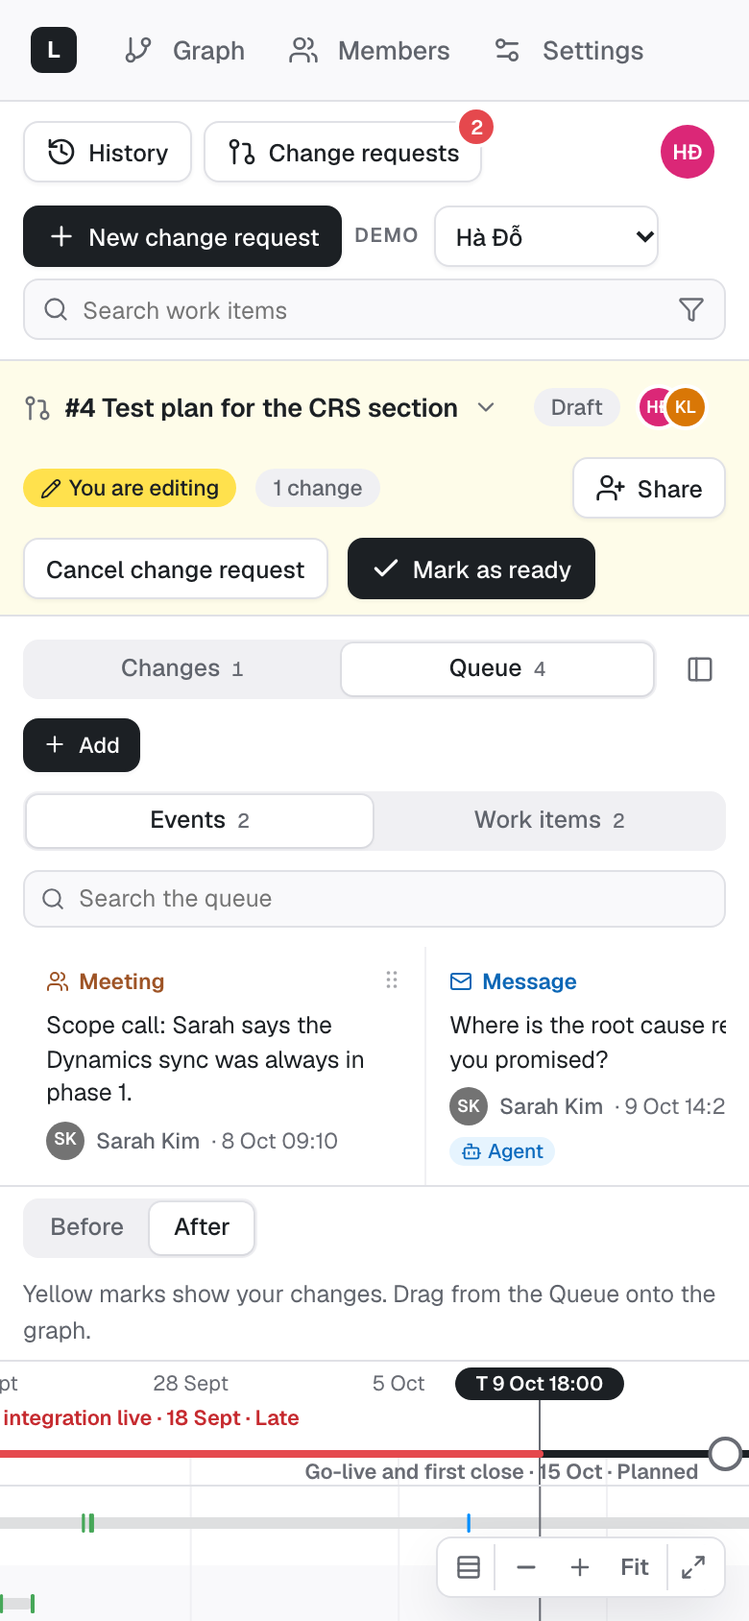
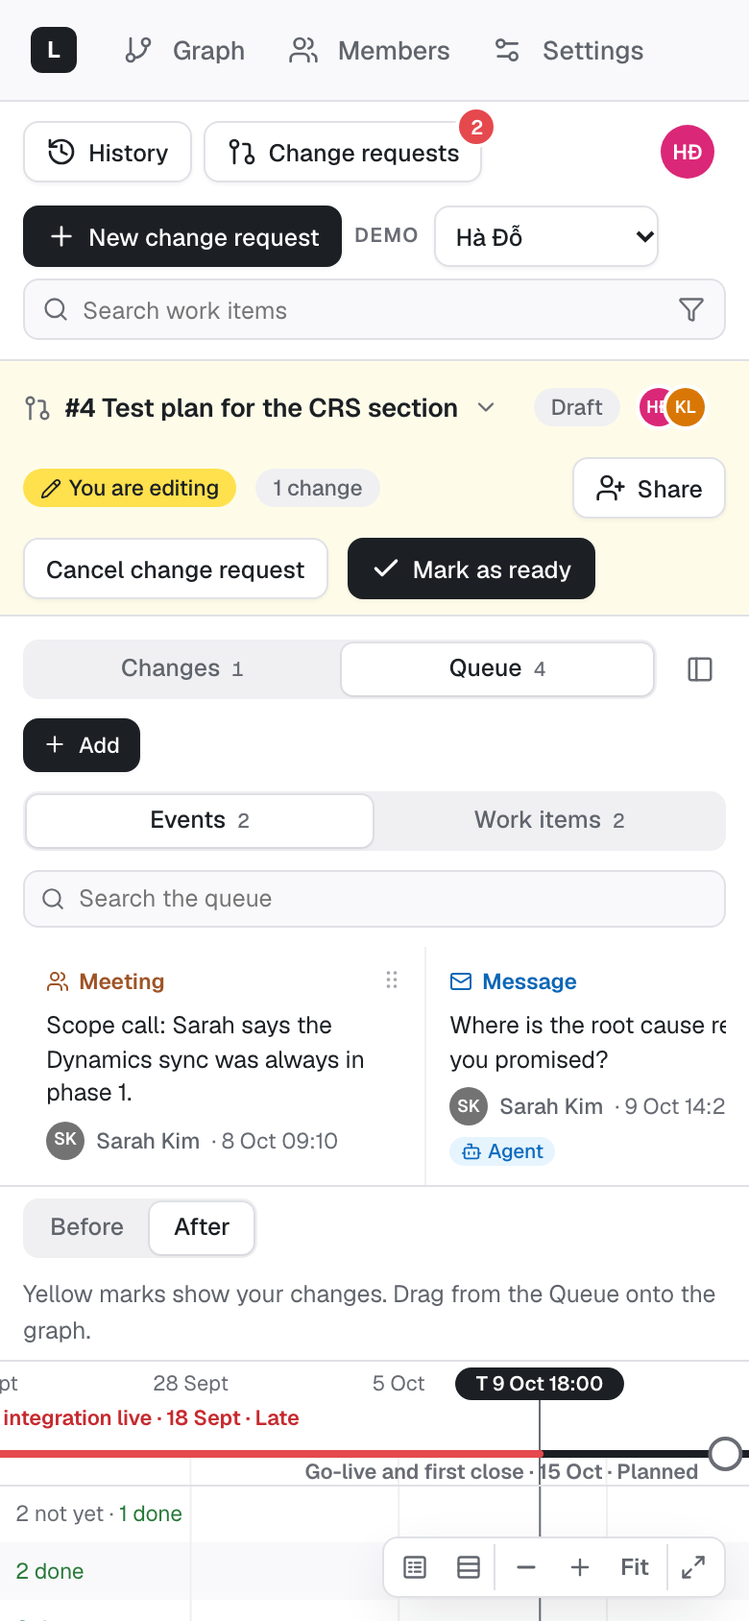
docs: legend popover in the spec, design system and readme, with new screenshots

Changed region(s): [[0.0, 0.9242, 1.0, 1.0]]

diff --git a/docs/design/design-system.html b/docs/design/design-system.html
@@ -317,10 +317,21 @@ table.t td.mono { font: 12px var(--f-id); white-space: nowrap; }
 .tk .zoombar button { display: grid; place-items: center; min-width: 26px; height: 24px; padding: 0 6px; border: 0; border-radius: 6px; background: none; color: var(--ink-2); font: 600 12px/1 var(--f-ui); cursor: pointer; }
 .tk .zoombar button:hover { background: var(--hover); color: var(--ink); }
 .tk .zoombar .full { margin-left: 2px; box-shadow: -1px 0 0 var(--rule); border-radius: 0 var(--r-ctl) var(--r-ctl) 0; }
-.tk .legend2 { display: flex; gap: 6px 16px; flex-wrap: wrap; padding: 9px 14px; font-size: var(--fs-xs); color: var(--ink-2); align-items: center; }
-.tk .legend2 span { display: inline-flex; align-items: center; gap: 6px; }
-.tk .legend2 i.ln { display: inline-block; width: 16px; height: 2.5px; border-radius: 2px; }
-.tk .legend2 .chg { padding: 0 5px; border-radius: 4px; background: var(--change-bg); color: var(--change-text); font-style: normal; font-weight: 600; }
+.tk .zoombar .lg-btn[aria-expanded='true'] { background: var(--hover); color: var(--ink); }
+.tk .legend-pop { position: relative; container-type: inline-size; width: min(600px, 100%); padding: 10px 14px 12px; background: var(--panel); border: 1px solid var(--rule); border-radius: var(--r-pop); box-shadow: var(--shadow); font-size: var(--fs-xs); color: var(--ink-2); }
+.tk .legend-pop .lg-x { position: absolute; top: 6px; right: 8px; border: 0; background: none; color: var(--ink-3); font-size: 20px; line-height: 1; padding: 0 2px; cursor: pointer; }
+.tk .lg-grid { display: grid; grid-template-columns: repeat(4, minmax(0, 1fr)); gap: 10px 18px; }
+.tk .lg-sec { display: grid; gap: 5px; align-content: start; min-width: 0; }
+.tk .lg-ev { grid-column: span 2; }
+.tk .lg-ev-cols { display: grid; grid-template-columns: repeat(2, minmax(0, 1fr)); gap: 0 18px; }
+.tk .lg-gl { font-size: 10.5px; font-weight: 600; text-transform: uppercase; letter-spacing: 0.07em; color: var(--ink-3); margin: 0 0 1px; }
+.tk .lg-gl ~ .lg-gl { margin-top: 8px; }
+.tk .lg-it { display: flex; align-items: center; gap: 7px; min-width: 0; line-height: 18px; white-space: nowrap; }
+.tk .lg-it i.ln { flex: none; width: 16px; height: 2.5px; border-radius: 2px; }
+.tk .lg-it .ms-sw { flex: none; margin: 0 3px; }
+.tk .lg-it .chg { padding: 0 5px; border-radius: 4px; background: var(--change-bg); color: var(--change-text); font-style: normal; font-weight: 600; line-height: 16px; }
+.tk .lg-ring { flex: none; display: grid; place-items: center; width: 18px; height: 18px; border-radius: 50%; border: 1.5px solid currentColor; background: color-mix(in srgb, currentColor var(--k-tint), var(--panel)); }
+@container (max-width: 520px) { .tk .lg-grid { grid-template-columns: repeat(2, minmax(0, 1fr)); } }
 .tk .ms-sw { display: inline-block; width: 10px; height: 10px; border-radius: 50%; border: 2px solid currentColor; }
 .tk .ms-sw.fill { background: currentColor; }
 .tk .bin { display: inline-flex; align-items: center; gap: 8px; padding: 8px 12px; border: 1px solid var(--danger); border-radius: var(--r-pop); background: var(--panel); color: var(--danger-ink); font-size: var(--fs-xs); font-weight: 600; box-shadow: var(--shadow); }
@@ -458,21 +469,36 @@ svg.tg .note { font-size: 10px; fill: var(--ink-3); }
     <div class="row">
       <span class="badge st-planned">Planned</span><span class="badge st-early">Finished early</span><span class="badge st-ontime">Finished on time</span><span class="badge st-late">Late</span><span class="badge st-flate">Finished late</span>
     </div>
-    <div class="legend2" style="padding:12px 0 0">
-      <span><i class="ln" style="background:var(--route)"></i>Not finished</span>
-      <span><i class="ln" style="background:var(--proceed)"></i>Done</span>
-      <span><i class="ln" style="background:var(--danger)"></i>Not finished after its planned finish</span>
-      <span><i class="ln" style="background:var(--caution)"></i>Done after its planned finish</span>
-      <span><svg width="12" height="12" viewBox="-7 -7 14 14" aria-hidden="true"><path d="M0 -6 L6 0 L0 6 L-6 0 Z" fill="var(--ink-3)" stroke="var(--ink-3)" stroke-width="1.5"/></svg>Milestone deadline on its work items</span>
-      <span style="color:var(--ink-3)"><i class="ms-sw"></i><span style="color:var(--ink-2)">Planned</span></span>
-      <span style="color:var(--teal)"><i class="ms-sw fill"></i><span style="color:var(--ink-2)">Finished early</span></span>
-      <span style="color:var(--proceed)"><i class="ms-sw fill"></i><span style="color:var(--ink-2)">Finished on time</span></span>
-      <span style="color:var(--danger)"><i class="ms-sw fill"></i><span style="color:var(--ink-2)">Late</span></span>
-      <span style="color:var(--caution)"><i class="ms-sw fill"></i><span style="color:var(--ink-2)">Finished late</span></span>
-      <span><i class="chg">Name</i>Changed in this change request</span>
+    <div class="legend-pop" role="dialog" aria-label="Legend" style="margin-top:14px">
+      <button type="button" class="lg-x" aria-label="Close legend">×</button>
+      <div class="lg-grid">
+        <div class="lg-sec">
+          <p class="lg-gl">Line</p>
+          <span class="lg-it"><i class="ln" style="background:var(--route)"></i>Not finished</span>
+          <span class="lg-it"><i class="ln" style="background:var(--proceed)"></i>Done</span>
+          <span class="lg-it" title="Not finished after its planned finish"><i class="ln" style="background:var(--danger)"></i>Late part</span>
+          <span class="lg-it" title="Done after its planned finish"><i class="ln" style="background:var(--caution)"></i>Done late</span>
+          <span class="lg-it"><i class="ln" style="background:var(--isolated)"></i>Cancelled</span>
+          <p class="lg-gl">Change</p>
+          <span class="lg-it" title="Changed in this change request"><i class="chg">Name</i>Changed here</span>
+        </div>
+        <div class="lg-sec">
+          <p class="lg-gl">Milestone</p>
+          <span class="lg-it" title="Milestone deadline on its work items"><svg width="12" height="12" viewBox="-7 -7 14 14" aria-hidden="true"><path d="M0 -6 L6 0 L0 6 L-6 0 Z" fill="var(--ink-3)" stroke="var(--ink-3)" stroke-width="1.5"/></svg>Deadline</span>
+          <span class="lg-it"><i class="ms-sw" style="color:var(--ink-3)"></i>Planned</span>
+          <span class="lg-it" title="Finished early"><i class="ms-sw fill" style="color:var(--teal)"></i>Early</span>
+          <span class="lg-it" title="Finished on time"><i class="ms-sw fill" style="color:var(--proceed)"></i>On time</span>
+          <span class="lg-it"><i class="ms-sw fill" style="color:var(--danger)"></i>Late</span>
+          <span class="lg-it"><i class="ms-sw fill" style="color:var(--caution)"></i>Finished late</span>
+        </div>
+        <div class="lg-sec lg-ev" role="group" aria-label="Event kinds">
+          <p class="lg-gl">Event</p>
+          <div class="lg-ev-cols"><div class="lg-sec" id="lg-ev1"></div><div class="lg-sec" id="lg-ev2"></div></div>
+        </div>
+      </div>
     </div>
   </div>
-  <p class="cap">The real legend below the graph (Legend in TrackerGraph.tsx).</p>
+  <p class="cap">The Legend popover above the zoom bar (LegendBody in TrackerGraph.tsx). It opens by default until the person closes it; 2 columns on a phone.</p>
 
   <h3>Change mark: C2 yellow highlighter</h3>
   <div class="swgrid" id="sw-change"></div>
@@ -692,7 +718,7 @@ Handed over to Digitization · received in PG-202 DealCloud mapping for CRS fiel
     <div class="stage">
       <div class="row" style="gap:18px">
         <div class="toast">Event placed on Sync incident report <button type="button" id="toast-undo">Undo</button></div>
-        <div class="zoombar"><button type="button" aria-label="Zoom out">−</button><button type="button" aria-label="Zoom in">+</button><button type="button">Fit</button><button type="button" class="full" aria-pressed="false" aria-label="Full view" id="zb-full"></button></div>
+        <div class="zoombar"><button type="button" class="lg-btn" aria-label="Legend" title="Legend" aria-expanded="true" id="zb-legend"></button><button type="button" aria-label="Zoom out">−</button><button type="button" aria-label="Zoom in">+</button><button type="button">Fit</button><button type="button" class="full" aria-pressed="false" aria-label="Full view" id="zb-full"></button></div>
         <div class="bin" id="bin">Drop here to hide</div>
       </div>
     </div>
@@ -895,6 +921,11 @@ Handed over to Digitization · received in PG-202 DealCloud mapping for CRS fiel
   put('sk2', svg(KIND.message, 13));
   prepend('toast-undo', svg(UI.undo, 13));
   put('zb-full', svg(UI.maximize, 14));
+  put('zb-legend', svg([S, '<rect width="18" height="18" x="3" y="3" rx="2"/><path d="M7 8h2"/><path d="M12 8h5"/><path d="M7 12h2"/><path d="M12 12h5"/><path d="M7 16h2"/><path d="M12 16h5"/>'], 14));
+  var LEGEND_KINDS = ['idea', 'message', 'issue', 'task', 'meeting', 'decision', 'delivery', 'handoff', 'done', 'cancelled'];
+  function legendKind(k) { return '<span class="lg-it"><span class="lg-ring" style="color:var(--k-' + k + ')">' + svg(KIND[k], 11) + '</span>' + KIND_LABEL[k] + '</span>'; }
+  put('lg-ev1', LEGEND_KINDS.slice(0, 5).map(legendKind).join(''));
+  put('lg-ev2', LEGEND_KINDS.slice(5).map(legendKind).join(''));
   prepend('bin', svg(UI.trash, 14));
   prepend('rail-graph', railSvg('graph'));
   prepend('rail-settings', railSvg('settings'));

diff --git a/docs/superpowers/specs/2026-10-16-event-tracker-design.md b/docs/superpowers/specs/2026-10-16-event-tracker-design.md
@@ -29,7 +29,7 @@ Promise Graph becomes an event tracker for a whole project. It shows what happen
 7. Each work item has a Planned finish: a date plus an optional time of day (`HH:mm`, project time zone), the same as a milestone deadline. Without a time it is the end of that day. Work items use the same 5 statuses against that instant, plus Cancelled (decision 1): Cancelled = the last finishing event is a Cancelled, whatever the dates; Late = not finished and now is after it; Finished late = the finish is after it; Finished early = the finish day is before the planned day; otherwise Finished on time. Add to queue (work item), Place work item, New work item from an event and the details panel take the optional time; Place keeps the time of the Queue card unless it sets a new date or time. Moving a Planned finish or a milestone date needs a written reason (not empty after trim). Every place that sets or moves a milestone date also takes the optional time: New milestone, the milestone drawer (Planned date and Time), Move the date, the drag of the milestone circle (it keeps the time), and the first milestone of New project (a time without a name and a date is refused, never dropped). A change of the time alone is a move. Labels and tooltips show the time only when it is set ("15 Oct 17:00"). The app keeps the first date and every move: who, when, from, to, why. The graph draws no date flag for a work item. The details panel shows the Planned finish and folds the first date and every move. In an editable change request, the Planned finish date and time in the details panel are inputs: a new value shows "Why does the date move? (required)" under them with Cancel and Move the date; a drag of the milestone circle opens the reason dialog with the dropped date.
 8. Colours and marks:
    - A row is blue while open and green when done. The part of the line after the item's own Planned finish instant (its time when set, else the end of its day) is red while open and amber when done late. A cancelled row draws one neutral grey line (`--isolated`) from its start to the Cancelled event and nothing after it: never red, never amber.
-   - Kinds colour the events, status colours the lines (owner ruling 18 Oct, K1). An event circle takes the colour of the event kind (`--k-*`; Task grey, Meeting brown) on all of it: a 2-unit ring at full strength, a light tint inside (12 % over `--panel` in light, 16 % in dark) and the icon (owner, 18 Oct: the light theme looked washed out); a stack takes the kind colour of its top (latest) event, and the circles behind it a stronger tint of that colour (26 % light, 30 % dark). The yellow change ring, the selection band and the focus ring stay as they are. The legend lists the 10 kinds with their icons, and the Cancelled line colour next to the other line colours; its milestone statuses stay 5.
+   - Kinds colour the events, status colours the lines (owner ruling 18 Oct, K1). An event circle takes the colour of the event kind (`--k-*`; Task grey, Meeting brown) on all of it: a 2-unit ring at full strength, a light tint inside (12 % over `--panel` in light, 16 % in dark) and the icon (owner, 18 Oct: the light theme looked washed out); a stack takes the kind colour of its top (latest) event, and the circles behind it a stronger tint of that colour (26 % light, 30 % dark). The yellow change ring, the selection band and the focus ring stay as they are. The legend lists the 10 kinds, each drawn as its graph circle, and the Cancelled line colour next to the other line colours; its milestone statuses stay 5.
    - A milestone is a circle on the milestone line. Its fill is the status colour (Planned: an outline only). It shows a tick when finished early or on time, and "!" when late or finished late. Its label is "name · date · status" on 2 levels.
    - Milestones have no links and no chip column. Every member row shows a deadline diamond at the deadline (decision 6), and the milestone circle sits at the same point: at the time when it is set, else at the end of the day, after every event of that day.  The diamond is filled with the milestone status colour (Planned: an outline only), with a yellow stroke when a change request moved that date. It tells which milestone the row belongs to. The full milestone name shows once per team and milestone, beside the diamond of the first member row of that team: right of the diamond, or left of it when the right has no room, just above the line and inside the band of its own row. When neither side has room for the full name (an event, a mark, a chip or a waiting text, or the edge of the time line), that team shows no name and no other row takes it. A milestone date before the window start draws no diamond; the details panel still shows the milestone. Hover and keyboard focus show "<milestone name> · deadline <date> · <status>" (the date with its time when set), plus "This work item makes it late." or "This work item finished after it." when the row finished after the deadline, or is open while now is after the deadline or its Planned finish is after the milestone date. The overrun of the work item itself stays the red part of its line. A click, Enter or Space on the diamond opens the milestone drawer.
    - Yellow marks what a change request changed (owner choice C2): a highlighter behind a changed name (11 px), a solid 3 px yellow ring with a 30 % yellow fill around a changed event, and a 3 px yellow stroke on a changed milestone circle or a moved milestone date. The tokens are `--change` (light `#e0a800`, dark `#ffe629`), `--change-text` and `--change-bg` (light `#ffe14d`, dark `#6e5a00`); round 7 made them stronger so they read in both themes.
@@ -195,7 +195,8 @@ Port the prototype screen by screen, with the app's tokens (`src/app/globals.css
 - Rail (`src/components/shell/Rail.tsx`): Graph, Members and Settings at the top; at the bottom only the fold button, with a panel icon (Lucide `panel-left-close` and `panel-left-open`). The current page reads in bold, with no box.
 - Members page (`src/components/members/MembersScreen.tsx`) and Settings page: the tracker controls and type scale, a top bar with the page name, the project and the account menu, and flat rows with hairline dividers.
 - `QueuePanel`: only in a draft CR that the acting member edits; a toggle hides it and a "Queue N" button shows it again.
-- `TrackerGraph`: SVG from `layoutTracker` at one pixel per unit, and it reports the width of its time line on every resize. Folding the rail, closing the Queue or a wider window shows more of the time line at the same scale. The graph opens at a readable scale once its width is measured (`openScale` in `src/components/tracker/scale.ts`): the visible time line holds the last 42 days up to a week after T, never less than 10 units a day (a phone) and never less than the fit, and it scrolls so that T plus a week sits at its right edge (on a phone the whole graph also scrolls to its right end, so T shows and the labels are a swipe away); the window still starts early enough for every event, so earlier work is a scroll or a Fit away (round 7 review). The view menu (Row height, Expand all, Collapse all) and the zoom buttons (Zoom out, which stops at the fit, Zoom in ×1.5, Fit, which fits the window to the current width, Full view) floating at the bottom right of the graph area and Ctrl or Cmd with the wheel or a trackpad pinch (`wheelZoomFactor` in `scale.ts`: a factor of e^(−0.005 × deltaY) per wheel event, 2.5 times the old rate so a pinch feels direct, clamped to one step of ×1.25 so a mouse notch stays one comfortable step; owner, 18 Oct), or a Safari trackpad pinch (its `gesturestart` / `gesturechange` / `gestureend` events, feature-detected: each change zooms by `gestureFactor`, the change of `scale` since the last event, anchored at the pointer, and `preventDefault` keeps the page zoom out of it), pointer drag and drop with ghost and drop highlight, bin. The axis band (dates, T pill, milestone line) stays pinned at the top of the graph while the rows scroll, and follows the sideways scroll and the zoom of the time line. A click, Enter or Space on a row label or its line opens the details panel of the work item (no row pop); the eye of the row and the Hide button of the panel hide it. A `reveal` prop zooms to 2× the fit when at or below the fit, scrolls the row into view (left of an open drawer), and flashes it for 1.5 s. Full view makes the board cover the screen (the Fullscreen API on the board, or the whole window when the browser refuses) without the rail, the top bar, the context bar, the notice and the legend; drawers, pops and modals still work. The button (Full view, pressed while on) leaves it. Esc that reaches the page closes the top layer first (modal, move, pop, drawer, focus) and leaves full view last; in real full screen the browser takes the first Esc itself and leaves full screen with drawers and pops still open, and the board follows the `fullscreenchange`. A handoff list closes on Esc, Tab, a focus move out of it, and when its source mark goes away.
+- `TrackerGraph`: SVG from `layoutTracker` at one pixel per unit, and it reports the width of its time line on every resize. Folding the rail, closing the Queue or a wider window shows more of the time line at the same scale. The graph opens at a readable scale once its width is measured (`openScale` in `src/components/tracker/scale.ts`): the visible time line holds the last 42 days up to a week after T, never less than 10 units a day (a phone) and never less than the fit, and it scrolls so that T plus a week sits at its right edge (on a phone the whole graph also scrolls to its right end, so T shows and the labels are a swipe away); the window still starts early enough for every event, so earlier work is a scroll or a Fit away (round 7 review). The Legend button, the view menu (Row height, Expand all, Collapse all) and the zoom buttons (Zoom out, which stops at the fit, Zoom in ×1.5, Fit, which fits the window to the current width, Full view) floating at the bottom right of the graph area and Ctrl or Cmd with the wheel or a trackpad pinch (`wheelZoomFactor` in `scale.ts`: a factor of e^(−0.005 × deltaY) per wheel event, 2.5 times the old rate so a pinch feels direct, clamped to one step of ×1.25 so a mouse notch stays one comfortable step; owner, 18 Oct), or a Safari trackpad pinch (its `gesturestart` / `gesturechange` / `gestureend` events, feature-detected: each change zooms by `gestureFactor`, the change of `scale` since the last event, anchored at the pointer, and `preventDefault` keeps the page zoom out of it), pointer drag and drop with ghost and drop highlight, bin. The axis band (dates, T pill, milestone line) stays pinned at the top of the graph while the rows scroll, and follows the sideways scroll and the zoom of the time line. A click, Enter or Space on a row label or its line opens the details panel of the work item (no row pop); the eye of the row and the Hide button of the panel hide it. A `reveal` prop zooms to 2× the fit when at or below the fit, scrolls the row into view (left of an open drawer), and flashes it for 1.5 s. Full view makes the board cover the screen (the Fullscreen API on the board, or the whole window when the browser refuses) without the rail, the top bar, the context bar and the notice; the zoom corner with the Legend button and its popover stays, and drawers, pops and modals still work. The button (Full view, pressed while on) leaves it. Esc that reaches the page closes the top layer first (modal, move, pop, drawer, focus) and leaves full view last; in real full screen the browser takes the first Esc itself and leaves full screen with drawers and pops still open, and the board follows the `fullscreenchange`. A handoff list closes on Esc, Tab, a focus move out of it, and when its source mark goes away.
+- Legend (owner ruling 18 Oct, option L2 of `docs/design/2026-10-18-legend-options.html`): no strip under the graph, so the graph takes that height. The first button of the zoom corner, **Legend** (`aria-expanded`, tooltip "Legend"), opens a popover above the zoom corner, aligned to its right end, that never covers the zoom buttons. It has 4 columns with small upper-case group labels: LINE (Not finished, Done, Late part, Done late, Cancelled) with CHANGE (the yellow Name chip, "Changed here") under it; MILESTONE (the deadline diamond, Planned, Early, On time, Late, Finished late); EVENT in two columns with the 10 kinds in the order of the kind picker, each drawn as its graph circle (kind ring, tint, icon) and its name. Late part and Done late carry the full sentence as a tooltip ("Not finished after its planned finish", "Done after its planned finish"). On a phone (760 px or less) and in a narrow graph the popover has 2 columns, it is never wider than the screen minus the 16 px gutters, and it scrolls inside when the visible graph above the zoom corner is too short. It opens by default; when the person closes it (the button, the × in it, or Esc while the focus is inside it), the browser remembers "closed" for that person (`promise-graph:legend:v1:<user>`), and the button opens it and remembers "open" again. It is a reference panel: an outside click does not close it, it blocks no click outside its own box, it hides while a card or an event is dragged so that every drop target stays open, and Esc with the focus elsewhere leaves it open. Without browser storage it opens on every page view.
 - `Search`: a combobox that matches the title, the team name and the people (case and Vietnamese marks ignored), and lists up to 8 results with the team and a status chip. Arrow keys, Enter, Esc and a click work. A pick shows the row if it or its team is hidden, reveals it on the graph and opens its details. The filter control sits inside the search box (decision 3, Filters).
 - `Pops`: event (with View in work item, which opens the details of its work item), stack of events, kind. Edit buttons show only in an editable view.
 - `Drawers`: Work item details, Milestone, Changes, Change requests, History, Focus (shown while a focus is on and no other drawer is open). The Work item details use the owner's option O1 "Refined list" (18 Oct): the title and team, a status row (status chip, "late N days" or "late N h" in red when late, and a quiet Hide from the graph button), then a label and value list in three groups split by thin hairlines: people (Team, Done by and Requested by with avatars), dates (Milestone with its date and status, Started, Planned finish with its time when set and red with "late N …" only when late, Finished or "Not yet", Time spent as "123 h (5.1 days)", or hours only under a day: "1 h", "0 h"), and links (Parent, Leads from, Leads to). Date moves fold into one line ("First planned … · moved N×"); a click opens every move with its reason, who and when, and "The date never moved." shows when there is none. All events follow, newest first (hidden ones marked "hidden"). In an editable view the same panel turns into controls in place: the title is an input with Save name and Cancel, Team, Done by, Requested by, Milestone and Parent are pickers, Leads from has a remove button per source and an add picker, and the Planned finish takes a date and a time with the reason inline (decision 7). The date is a text box in the app format ("6 Oct 2026"; it also reads "6 October", "6 Oct" with the year of the date, and "2026-10-06"), marked invalid while the text is not a day, with a calendar button (Open the calendar) that opens the app's own calendar (`DateInput`, round 7 review; round 8 replaced the browser's picker). The time is a text box in 24-hour "14:30" with a list of times in 30-minute steps (`TimeInput`). The start hint (decision 1) sits under the status row when it applies. Add an event, Mark done and Cancel work item sit under the status row; Cancel work item opens the event modal ("Cancel this work item") with the kind Cancelled and the box "Why is it cancelled? (required)", and its buttons are Back and Cancel work item. A finished or cancelled item hides the three buttons. Each change appends the same change request op as before (`rename`, `due`, `msAdd`, `msRemove`) or one of the field ops (`doneBy`, `requestedBy`, `team`, `parent`, `after`) through `actions.editItem`, so a host page needs only `edit` and the actions. A view is editable only for a draft change request whose current editor you are, with the Create change requests right (`can(payload, 'edit', cr)`, the same rule as the server). A read-only view shows the same panel without controls. A click on an event opens its pop on the graph. The panel takes the focus without a focus ring; its controls keep theirs.
@@ -203,7 +204,7 @@ Port the prototype screen by screen, with the app's tokens (`src/app/globals.css
 - Date and time fields (round 8, the owner: every date and time box uses the app format): `DateInput` ("6 Oct 2026" with the app's own calendar popover), `TimeInput` (24-hour "14:30", typed as "1430", "9" or "9:5", or picked from a list in 30-minute steps; an optional box offers "No time") and `DateTimeInput` (the When of an event: a date and a time, still sent as the same wall time in the project time zone). Every modal, drawer and the New project dialog uses them; the app has no browser date or time control. A box saves whole text as the person types (a 4-digit year; two minute digits) and short text ("6 Oct", "9", "9:5") on Enter or when it loses the focus; Enter in the time list saves the typed time and picks a row only after the arrow keys moved. Text that is not a day or a time marks the box red, is never saved, and returns to the value the box had when it got the focus. The calendar's Today is the project's T day. Design: `docs/design-system.md` §8.3.
 - `Toast` with Undo. The old `ReviewScreen` is gone; its route renders the change request page.
 
-Layout: on a desktop, the board fills the viewport. The bars and the legend stay put, and the graph canvas scrolls between them. A drawer covers the right side of the canvas at full height. Without the side panel, the graph takes the full width. Secondary pages (Members, Settings) put their head and body in one centred column of up to 1200 px; Settings shows the tokens on the left and Connect your agent on the right from 1180 px. Sign-in, the empty projects page, Page not found and the error page are centred. Keyboard: Esc closes the top layer; every SVG target has `role="button"`, `tabindex=0`, an `aria-label`, and Enter or Space activates it. Phone width (390 px): no horizontal page scroll; the page scrolls, the view selector and the account avatar share the first line, the actions wrap below, the search takes its own line, the Queue stacks above the graph and its cards scroll sideways.
+Layout: on a desktop, the board fills the viewport. The bars stay put, and the graph canvas scrolls below them to the bottom of the screen. A drawer covers the right side of the canvas at full height. Without the side panel, the graph takes the full width. Secondary pages (Members, Settings) put their head and body in one centred column of up to 1200 px; Settings shows the tokens on the left and Connect your agent on the right from 1180 px. Sign-in, the empty projects page, Page not found and the error page are centred. Keyboard: Esc closes the top layer; every SVG target has `role="button"`, `tabindex=0`, an `aria-label`, and Enter or Space activates it. Phone width (390 px): no horizontal page scroll; the page scrolls, the view selector and the account avatar share the first line, the actions wrap below, the search takes its own line, the Queue stacks above the graph and its cards scroll sideways.
 
 ### 3.9 MCP (`src/server/mcp/tools.ts`)
 

diff --git a/README.md b/README.md
@@ -4,11 +4,11 @@ Promise Graph is an event tracker for a whole project. It shows what happened at
 
 People and their agents add events and work items to a Queue. In a change request, a person drags them onto the graph. Main is read-only: every change goes through a change request, and a person with the Merge right merges it.
 
-![The Larkspur demo project on Main: the view selector with read-only and the project lead, the read-only notice, teams, work items, events and milestones](docs/screenshots/tracker-main.png)
+![The Larkspur demo project on Main: the view selector with read-only and the project lead, the read-only notice, teams, work items, events and milestones, and the Legend popover above the zoom buttons](docs/screenshots/tracker-main.png)
 
 ## What it does
 
-- **Events.** An event is an Idea, Message, Issue, Task, Meeting, Decision, Delivery, Handoff, Done or Cancelled. The kind picker groups them into Start, Progress and Finish to help you choose, but any kind can go anywhere. Each event sits on the row of one work item, at its own time. Events that sit close stack, the earlier ones under the later one; zoom in to pull them apart. Each kind has its own colour on the graph (Task grey, Meeting brown), and the colour of a row line tells its status. The legend under the graph lists both.
+- **Events.** An event is an Idea, Message, Issue, Task, Meeting, Decision, Delivery, Handoff, Done or Cancelled. The kind picker groups them into Start, Progress and Finish to help you choose, but any kind can go anywhere. Each event sits on the row of one work item, at its own time. Events that sit close stack, the earlier ones under the later one; zoom in to pull them apart. Each kind has its own colour on the graph (Task grey, Meeting brown), and the colour of a row line tells its status. The legend lists both.
 - **Work items and teams.** Each work item has one row under its team. Each team starts with a summary row: its name, the number of work items, and to the right, at the left edge of the time line, how many are late, not yet done, done and cancelled. Click the summary row (or press Enter or Space on it) to open or collapse the team. A team with late work starts open, the others start collapsed, and the app remembers your choice per project. Search, filters, a focus and every link to a row open the team that holds it. A work item can have a parent and can lead from other work items. It finishes at its last finishing event: a Done, a Cancelled, or a Handoff with **This finishes the work item** ticked (a new Handoff has it ticked). A Cancelled event needs a reason; a cancelled row turns grey and stops at the cancel, and it is never late. To reopen a work item, hide its finishing event. A cancelled work item hands nothing over: its handoff mark turns grey and says so, and a work item that waits for it says "<source> was cancelled". When a work item starts with a Delivery, a Handoff or a Done, its details show a quiet hint to add the event that started it. The eye buttons hide a row or a whole team for you only. A hidden row leaves no line on the graph. While something is hidden, an **N hidden** badge sits at the right end of the bar under the top bar; press it to unhide one row, one team or all of them. The graph draws no connector lines: a child row sits indented under its parent in the same team, and a click on a row opens its details. A row whose own parent or source is hidden shows a small branch chip. Press the chip to show that row again.
 - **Handoff marks.** A work item that other work items lead from shows one handoff mark. When it has a Handoff event, that event icon is the mark, with a small receiver count when there are several. Without a Handoff event, a small mark sits after its finish. Hover or focus it to read every handoff. A click jumps to the receiving row, or opens a short list to choose from when there are several.
 - **Milestones.** A milestone has 5 statuses: Planned, Finished early, Finished on time, Late and Finished late. It is done when all its work items that are not cancelled are done. Its circle on the milestone line shows the status.
@@ -22,7 +22,8 @@ People and their agents add events and work items to a Queue. In a change reques
 - **Focus.** The focus button of a row shows only that work item and the work that comes from it. The focus button of a team head shows the rows of that team and the work that comes from them. The Focus panel lists them as a tree; Esc leaves the focus.
 - **Filters.** The filter button in the search box narrows the graph by status, team, milestone and person. Typed text narrows it too, with the same matches as the search list. The parents of a matching row stay as dimmed context. **Clear filters** shows every row again. Filters are yours only and are not saved.
 - **Row height.** The rows button at the bottom right of the graph opens **Row height** (Comfortable, Compact or Dense) with **Expand all** and **Collapse all** for the teams. Compact is the default. At Dense each event is a small dot in the colour of its kind. The app remembers your row height.
-- **Zoom and full view.** The zoom buttons at the bottom right of the graph stretch the time line. Ctrl (or Cmd) and the mouse wheel also zoom, and so does a pinch on a trackpad, in Safari too. One wheel notch is one step of ×1.25. The graph opens on the last five weeks up to a week after T, with T in view. **Fit** fits the whole window to the current width. The window starts early enough to show the earliest event on the board. The dates on the axis step by day, week, two weeks, month or quarter, so they never touch. The sizes of the graph never follow the width of the screen: when the sidebar folds, the graph shows more of the time line instead. The full view button makes the graph fill the screen; press it again or Esc to leave. The dates and the milestone line stay at the top while the rows scroll.
+- **Legend.** The **Legend** button, first at the bottom right of the graph, opens the legend above the zoom buttons: the line colours (Not finished, Done, Late part, Done late, Cancelled), the change mark, the milestone marks and the 10 event kinds as the graph draws them. Hover Late part or Done late to read the full sentence. The legend is open on your first visit. Close it with the button, its × or Esc while the focus is in it; the app then keeps it closed for you until you open it again. A click elsewhere on the graph leaves it open, and it hides while you drag, so it never covers a drop target. On a phone it has two columns.
+- **Zoom and full view.** The zoom buttons at the bottom right of the graph stretch the time line. Ctrl (or Cmd) and the mouse wheel also zoom, and so does a pinch on a trackpad, in Safari too. One wheel notch is one step of ×1.25. The graph opens on the last five weeks up to a week after T, with T in view. **Fit** fits the whole window to the current width. The window starts early enough to show the earliest event on the board. The dates on the axis step by day, week, two weeks, month or quarter, so they never touch. The sizes of the graph never follow the width of the screen: when the sidebar folds, the graph shows more of the time line instead. The full view button makes the graph fill the screen, with the Legend button and the legend still there; press it again or Esc to leave. The dates and the milestone line stay at the top while the rows scroll.
 - **Projects and teams.** **+ New project** asks for the project name, the client, the teams and an optional first milestone. The teams start as Product, Design, Engineering, QA and Operations: remove a row with ×, or type a name in **Add a team** and press Enter. The creator is the project lead.
 - **Members and access.** The **Members** page lists the people of the project with their teams and four grants: **View Main**, **View change requests**, **Create change requests** and **Merge change requests**. Create and Merge include View change requests, and every grant includes View Main. The project lead (one per project) has every right, ticks the grants, invites a person by email, removes a member, hands the lead to another member, and manages the teams: add, rename, delete (only a team that no work item or change request uses), people and one lead per team. A team lead can always create change requests. An invite waits until that person signs in with Google using the same email; then the project opens for them. Other people see the page read-only.
 - **Account menu.** A click on your avatar at the top right opens a menu with the theme (System, Light or Dark) and **Sign out**.

diff --git a/docs/design-system.md b/docs/design-system.md
@@ -266,7 +266,7 @@ The rail is flat: `--sunk` fill and a 1px `--rule` right border. Items (`.rail-i
 - `.cr-side` (side panel of the change request page): 320px, the Changes and Queue tabs as a `.qseg`, a list of changes as rows with hairlines (`.chg-row`; the picked one on `--gray-bg`), the clash picks (`.res-box`) at the top. `.gtools` above the graph holds the Before / After `.seg`.
 - `.btn-stop`: a solid `--danger` button with white text, only for the confirm button of Cancel change request.
 - `.ro-note` (Main is read-only): `--route-bg` with `--route-ink` text, `--r-ctl`, a close button and Don't show again.
-- `.legend2`: a `--fs-xs` legend below the graph with the 5 line colours (Cancelled included), the deadline diamond, the 5 milestone statuses and the yellow "Name" sample.
+- `.legend-pop`: the Legend popover of the zoom bar (no strip under the graph). A `--panel` surface with `--r-pop`, `--shadow` and a `--rule` border, `--fs-xs` text in `--ink-2`, an `.x` close button at the top right. `.lg-grid` has 4 columns (2 under 520 px of popover width and on a phone): LINE with CHANGE under it, MILESTONE, and EVENT over two columns. Group labels are `.q-label` (10.5px upper case, `--ink-3`). Each row (`.lg-it`) is an 18px line with its sample and its word: a 16 × 2.5 line, the deadline diamond, a `.ms-sw` circle, the yellow `.chg` "Name" sample, or `.lg-ring`, an 18px kind circle drawn as on the graph (a 1.5px ring in the kind colour, a `--k-tint` tint over `--panel`, the 11px icon).
 
 ### 8.12 Tables of people and teams (Members page)
 
@@ -297,8 +297,8 @@ Geometry in view-box units (`GEOMETRY` in `src/tracker/layout.ts`): width 1060, 
 | Focus ring | A thin 1px `--focus` stroke with `vector-effect: non-scaling-stroke` on the row hit area (it reads as a line above and below the row); a `--focus` outline on milestone circles. |
 | Focus button | On each row and each team summary row, left of the eye: an 18-unit square (smaller with the row height), radius 4, the `focus` icon. Pressed: a `--focus` fill with a `--panel` icon. |
 | Bin | Shows only while you drag: a sticky box at the bottom left with a `--danger` border and `--danger-ink` text; `--danger-bg` and scale 1.06 when the pointer is over it. |
-| Zoom bar | Floats at the bottom right of the graph: the view menu (Row height and teams), Zoom out, Zoom in, Fit and Full view in a `--panel` box with `--r-ctl` and `--shadow`. Its buttons show the focus ring for the keyboard only: no ring after a click, and none when Esc closes a menu that a click opened. The view menu opens above the bar, from its right end, as a `--r-pop` popover; Esc and a press outside close it. It moves left of an open drawer. |
-| Legend | Below the graph: the line colours, the deadline diamond, the 5 milestone statuses, the change mark, then the 10 kinds (icon in its kind colour, name in `--ink-2`). |
+| Zoom bar | Floats at the bottom right of the graph: the Legend button, the view menu (Row height and teams), Zoom out, Zoom in, Fit and Full view in a `--panel` box with `--r-ctl` and `--shadow`. Its buttons show the focus ring for the keyboard only: no ring after a click, and none when Esc closes a menu that a click opened. The view menu opens above the bar, from its right end, as a `--r-pop` popover; Esc and a press outside close it. It moves left of an open drawer. |
+| Legend | A popover above the zoom bar, aligned to its right end, opened by the Legend button (pressed look while open) and open by default until the person closes it. LINE (Not finished, Done, Late part, Done late, Cancelled) and CHANGE, MILESTONE (Deadline and the 5 statuses), EVENT (the 10 kinds in kind picker order, each as its graph circle, name in `--ink-2`). An outside click leaves it open; Esc closes it only while the focus is inside it. It hides during a drag (`.tk.dragging`). |
 
 ## 10. Graph rules
 
